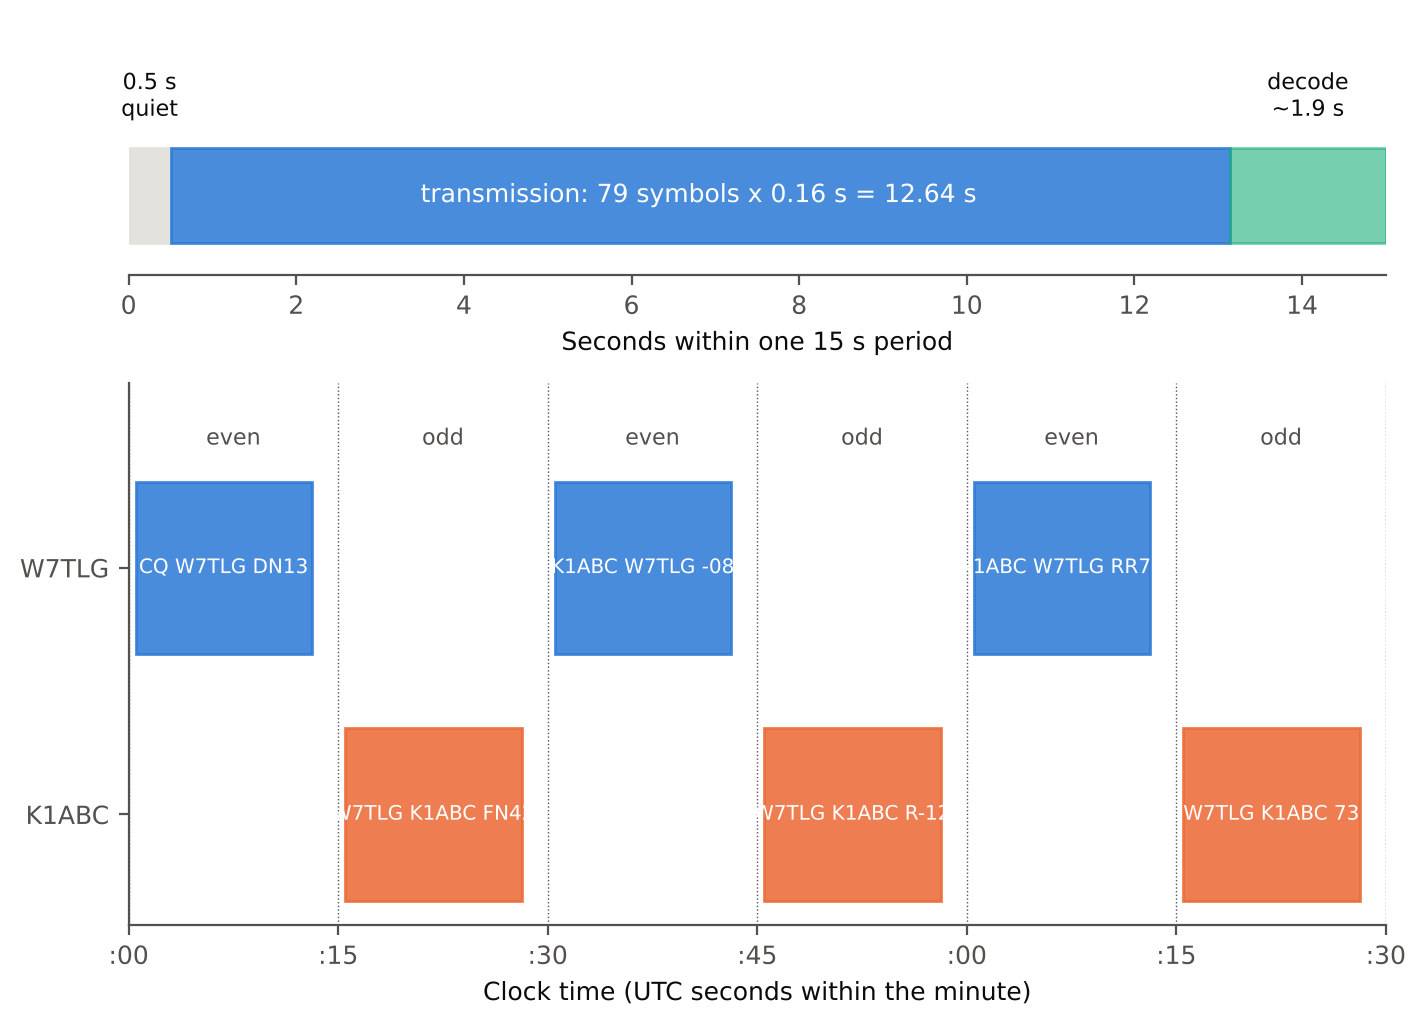
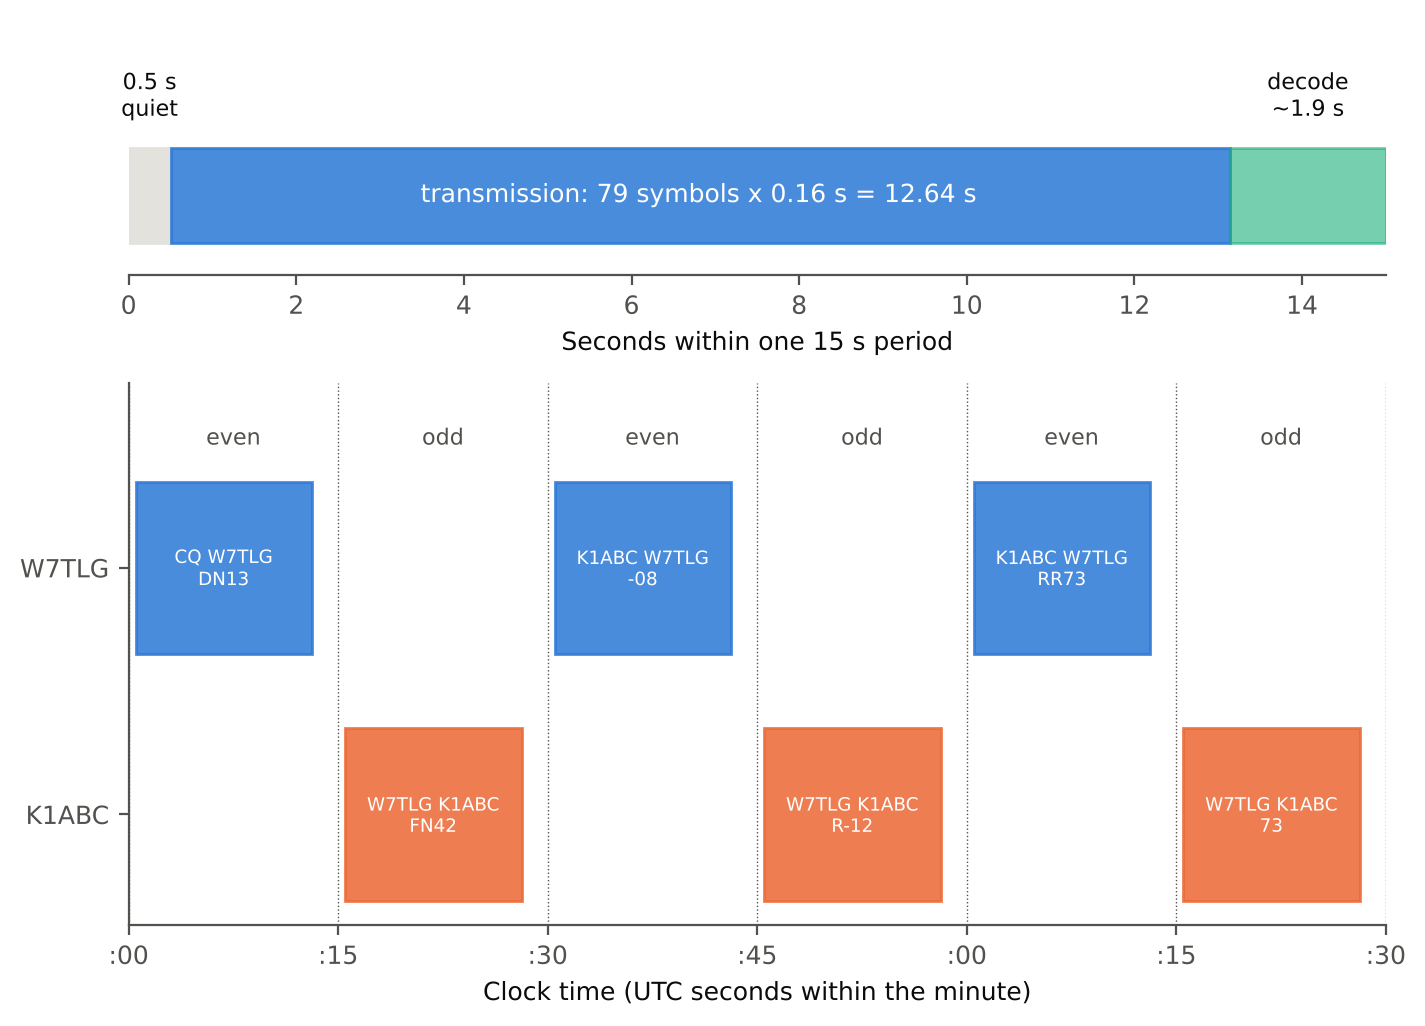
Fix clipped labels in bit-budget and timing figures; mark operating regions on decode-probability figure
Claude-Session: https://claude.ai/code/session_01DArZtaPYBGoLWbLJZPwfgD

diff --git a/figs_a.py b/figs_a.py
@@ -79,7 +79,8 @@ def fig03():
         y = 1.0 if who == 'W7TLG' else 0.0
         col = BLUE if who == 'W7TLG' else ORANGE
         b.add_patch(Rectangle((k * 15 + 0.5, y), 12.64, 0.7, color=col, alpha=0.85))
-        b.text(k * 15 + 6.8, y + 0.35, txt, ha='center', va='center', color='white', fontsize=7.2)
+        first, _, last = txt.rpartition(' ')
+        b.text(k * 15 + 6.8, y + 0.35, first + '\n' + last, ha='center', va='center', color='white', fontsize=6.6, linespacing=1.15)
     for k in range(7): b.axvline(k * 15, color=SEC, lw=0.5, ls=':')
     for k in range(6): b.text(k * 15 + 7.5, 1.85, 'even' if k % 2 == 0 else 'odd', ha='center', fontsize=8, color=SEC)
     b.set_yticks([0.35, 1.35]); b.set_yticklabels(['K1ABC', 'W7TLG']); b.set_xticks([0, 15, 30, 45, 60, 75, 90]); b.set_xticklabels([':00', ':15', ':30', ':45', ':00', ':15', ':30'])
@@ -93,16 +94,16 @@ def fig04():
         x = 0
         for w, lab, col in parts:
             ax.add_patch(Rectangle((x + 0.4, y), w - 0.8, 0.62, color=col, lw=0))
-            ax.text(x + w / 2, y + 0.31, lab, ha='center', va='center', fontsize=8, color='white')
+            ax.text(x + w / 2, y + 0.31, lab, ha='center', va='center', fontsize=8 if w > 30 else 7, color='white')
             x += w
     bar(3.6, [(77, '77 message bits', BLUE)])
-    bar(2.7, [(77, '77 message bits', BLUE), (14, 'CRC 14', VIOLET)])
+    bar(2.7, [(77, '77 message bits', BLUE), (14, 'CRC', VIOLET)])
     bar(1.8, [(77, '77 message bits', BLUE), (14, 'CRC', VIOLET), (83, '83 LDPC parity bits', AQUA)])
     parts = []
     for i, (w, lab, col) in enumerate([(21, 'S7', ORANGE), (87, '29 data symbols', SEC), (21, 'S7', ORANGE), (87, '29 data symbols', SEC), (21, 'S7', ORANGE)]):
         parts.append((w, lab, col))
     bar(0.9, parts)
-    for y, t in [(3.6, 'payload'), (2.7, '91 bits protected by CRC'), (1.8, '174-bit codeword'), (0.9, '79 channel symbols')]:
+    for y, t in [(3.6, 'payload'), (2.7, '91 bits: 77 + 14-bit CRC'), (1.8, '174-bit codeword'), (0.9, '79 channel symbols')]:
         ax.text(-3, y + 0.31, t, ha='right', va='center', fontsize=8.5)
     ax.text(237 / 2, 0.45, 'each data symbol carries 3 codeword bits (58 x 3 = 174); each S7 is a 7-tone Costas sync block', ha='center', fontsize=8, color=SEC)
     ax.set_xlim(-70, 240); ax.set_ylim(0.2, 4.4); ax.axis('off')

diff --git a/figs_b.py b/figs_b.py
@@ -82,12 +82,15 @@ def fig13():
     plt.tight_layout(); save('fig13_shannon'); return thr
 
 def fig14():
-    sim = json.load(open('sim_snr.json')); fig, ax = plt.subplots(figsize=(6.6, 3.2))
+    sim = json.load(open('sim_snr.json')); fig, ax = plt.subplots(figsize=(6.6, 3.5))
+    ax.axvspan(-24.5, -21, color='#e3e2dd', alpha=0.6, lw=0); ax.axvspan(-21, -18, color=ORANGE, alpha=0.13, lw=0); ax.axvspan(-18, -14.5, color=BLUE, alpha=0.08, lw=0)
+    for x, lab in ((-22.75, 'out of reach'), (-19.5, 'every dB counts'), (-16.25, 'decodes anyway')):
+        ax.text(x, 1.085, lab, ha='center', va='bottom', fontsize=8, color=INK)
     for mode, col, lab in (('ideal', BLUE, 'time and frequency known'), ('sync', ORANGE, 'with Costas search')):
         d = sim[mode]; s = sorted(int(k) for k in d); p = [d[str(k)]['good'] / d[str(k)]['n'] for k in s]
         ax.plot(s, p, 'o-', color=col, lw=1.4, ms=4, label=lab)
-    ax.axvline(-20.8, color=SEC, ls='--', lw=1); ax.text(-20.9, 0.05, 'WSJT-X published\n50% point (-20.8 dB)', ha='right', fontsize=7.5, color=SEC)
-    ax.set_xlim(-24.5, -14.5); ax.set_xlabel('SNR in 2500 Hz (dB)'); ax.set_ylabel('Probability of correct decode'); ax.legend(frameon=False, fontsize=8, loc='center right'); ax.grid(color=GRID, lw=0.6)
+    ax.axvline(-20.8, color=SEC, ls='--', lw=1); ax.text(-20.9, 0.55, 'WSJT-X published\n50% point (-20.8 dB)', ha='right', fontsize=7.5, color=SEC)
+    ax.set_xlim(-24.5, -14.5); ax.set_ylim(-0.03, 1.05); ax.set_xlabel('SNR in 2500 Hz (dB)'); ax.set_ylabel('Probability of correct decode'); ax.legend(frameon=False, fontsize=8, loc='lower right'); ax.grid(color=GRID, lw=0.6)
     plt.tight_layout(); save('fig14_decode_probability')
 
 if __name__ == '__main__':
